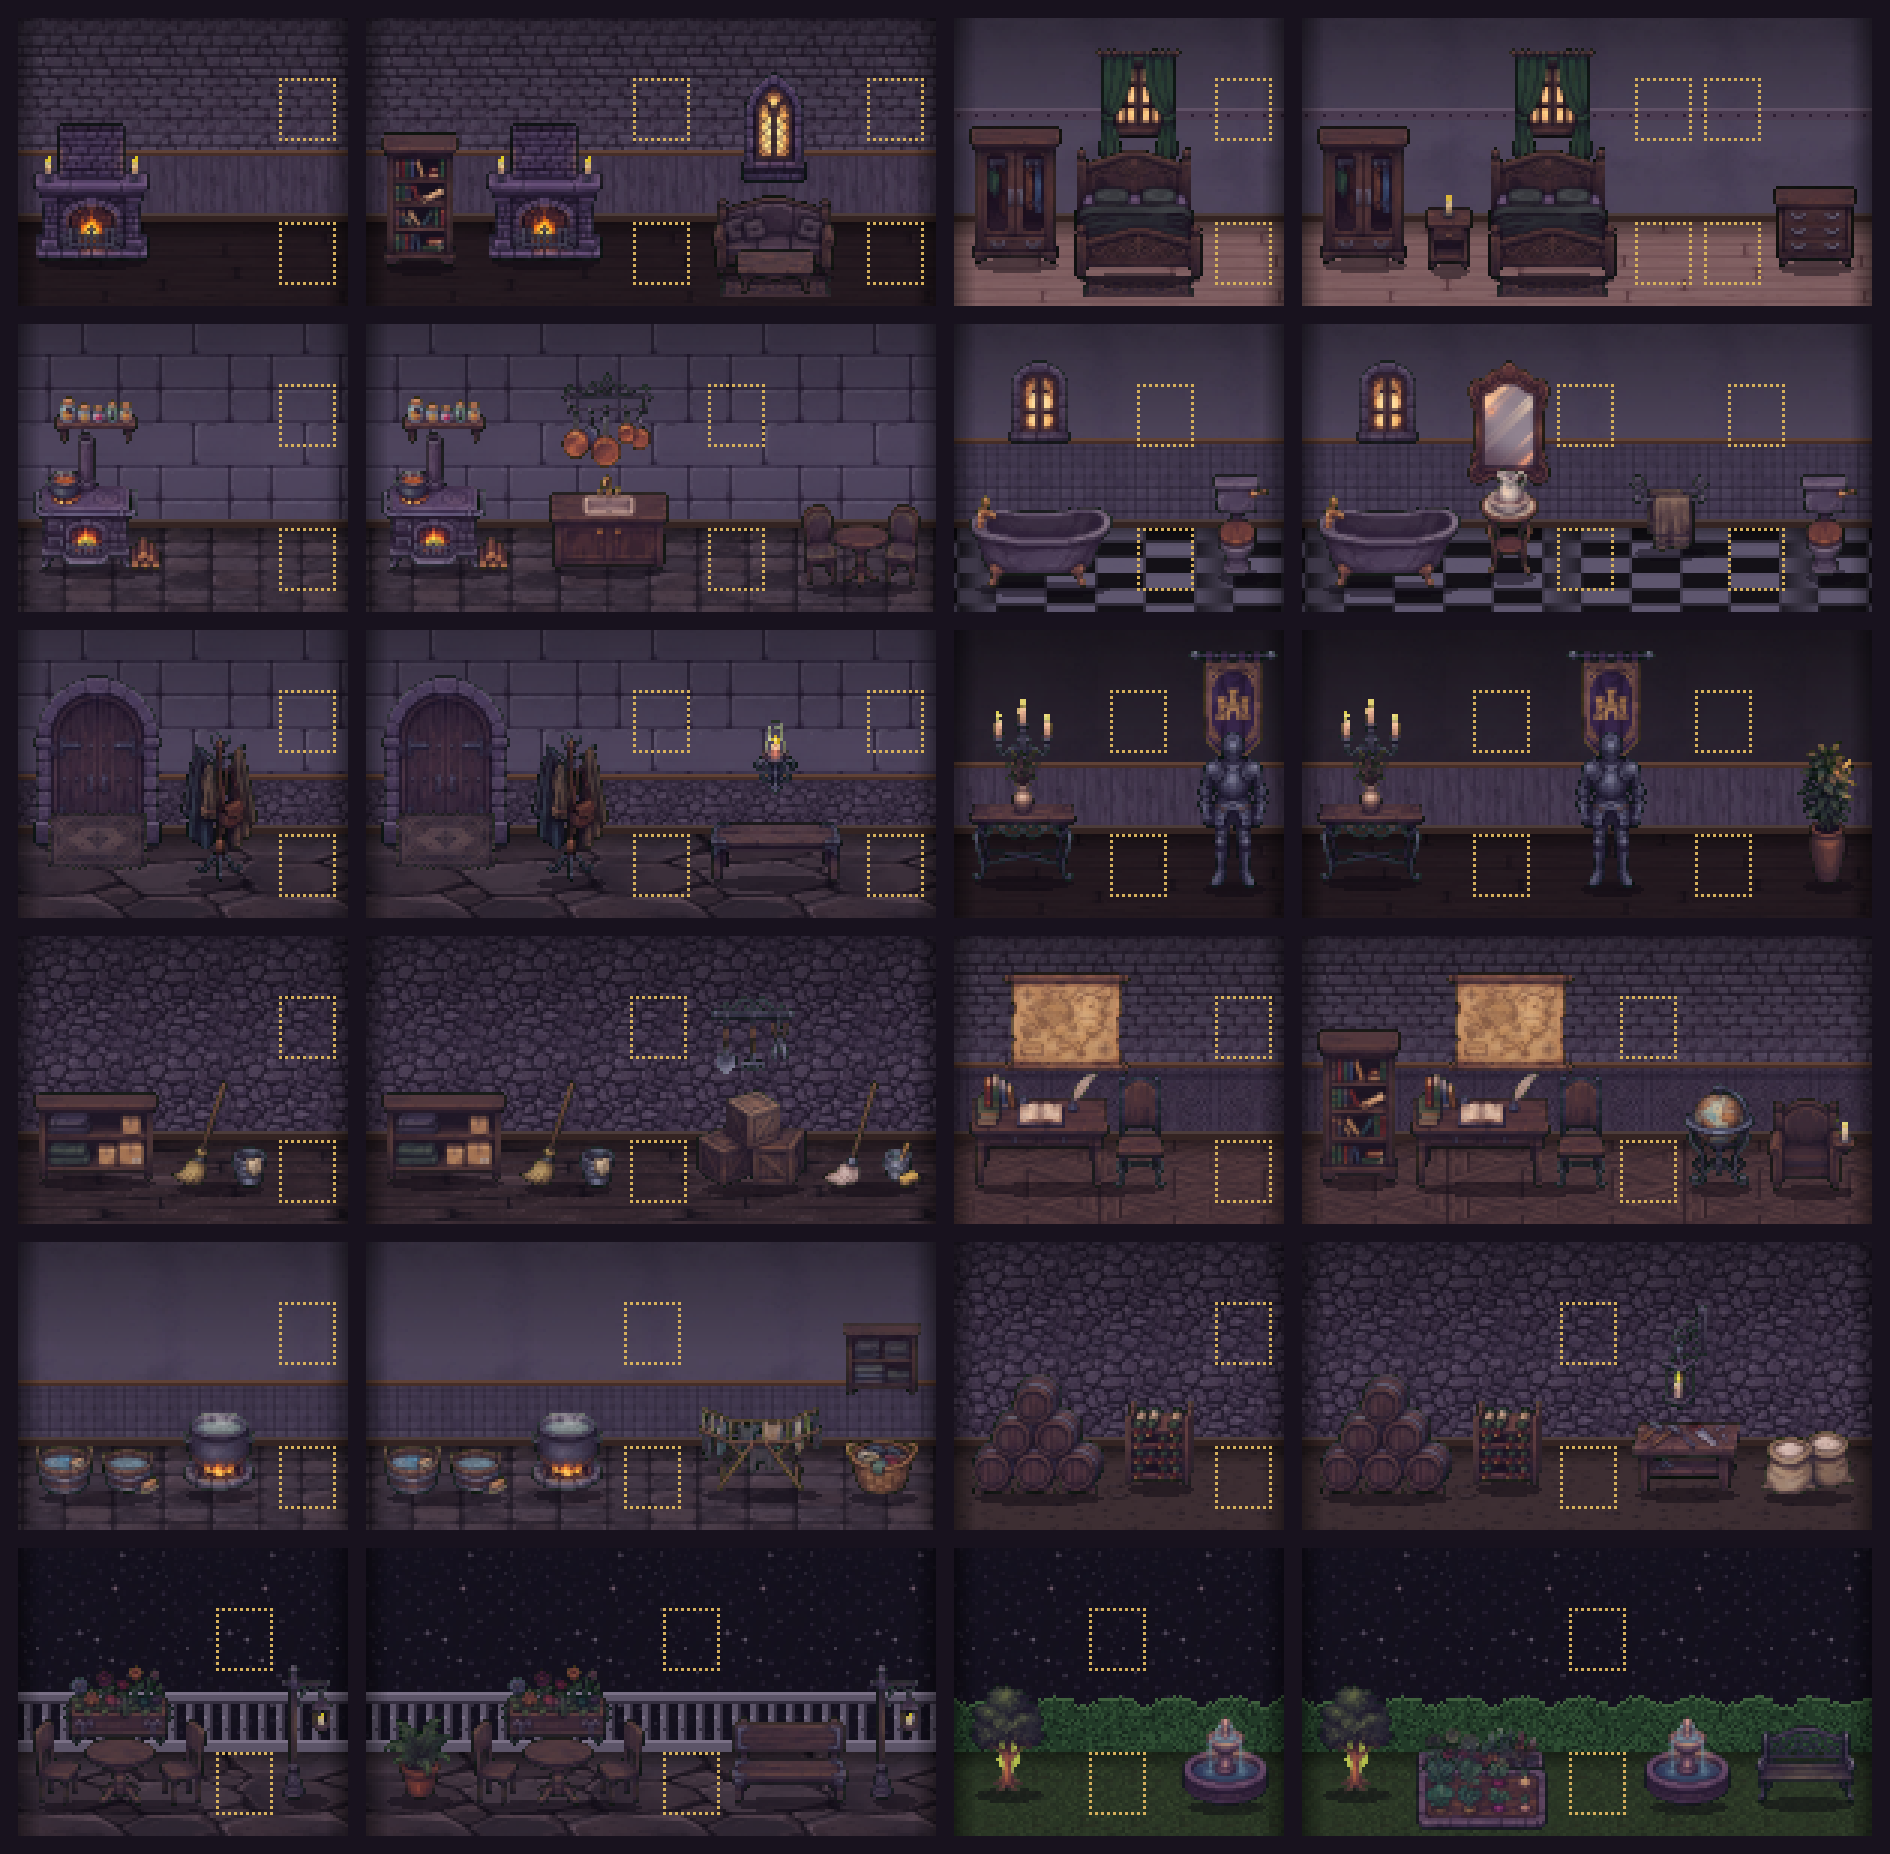
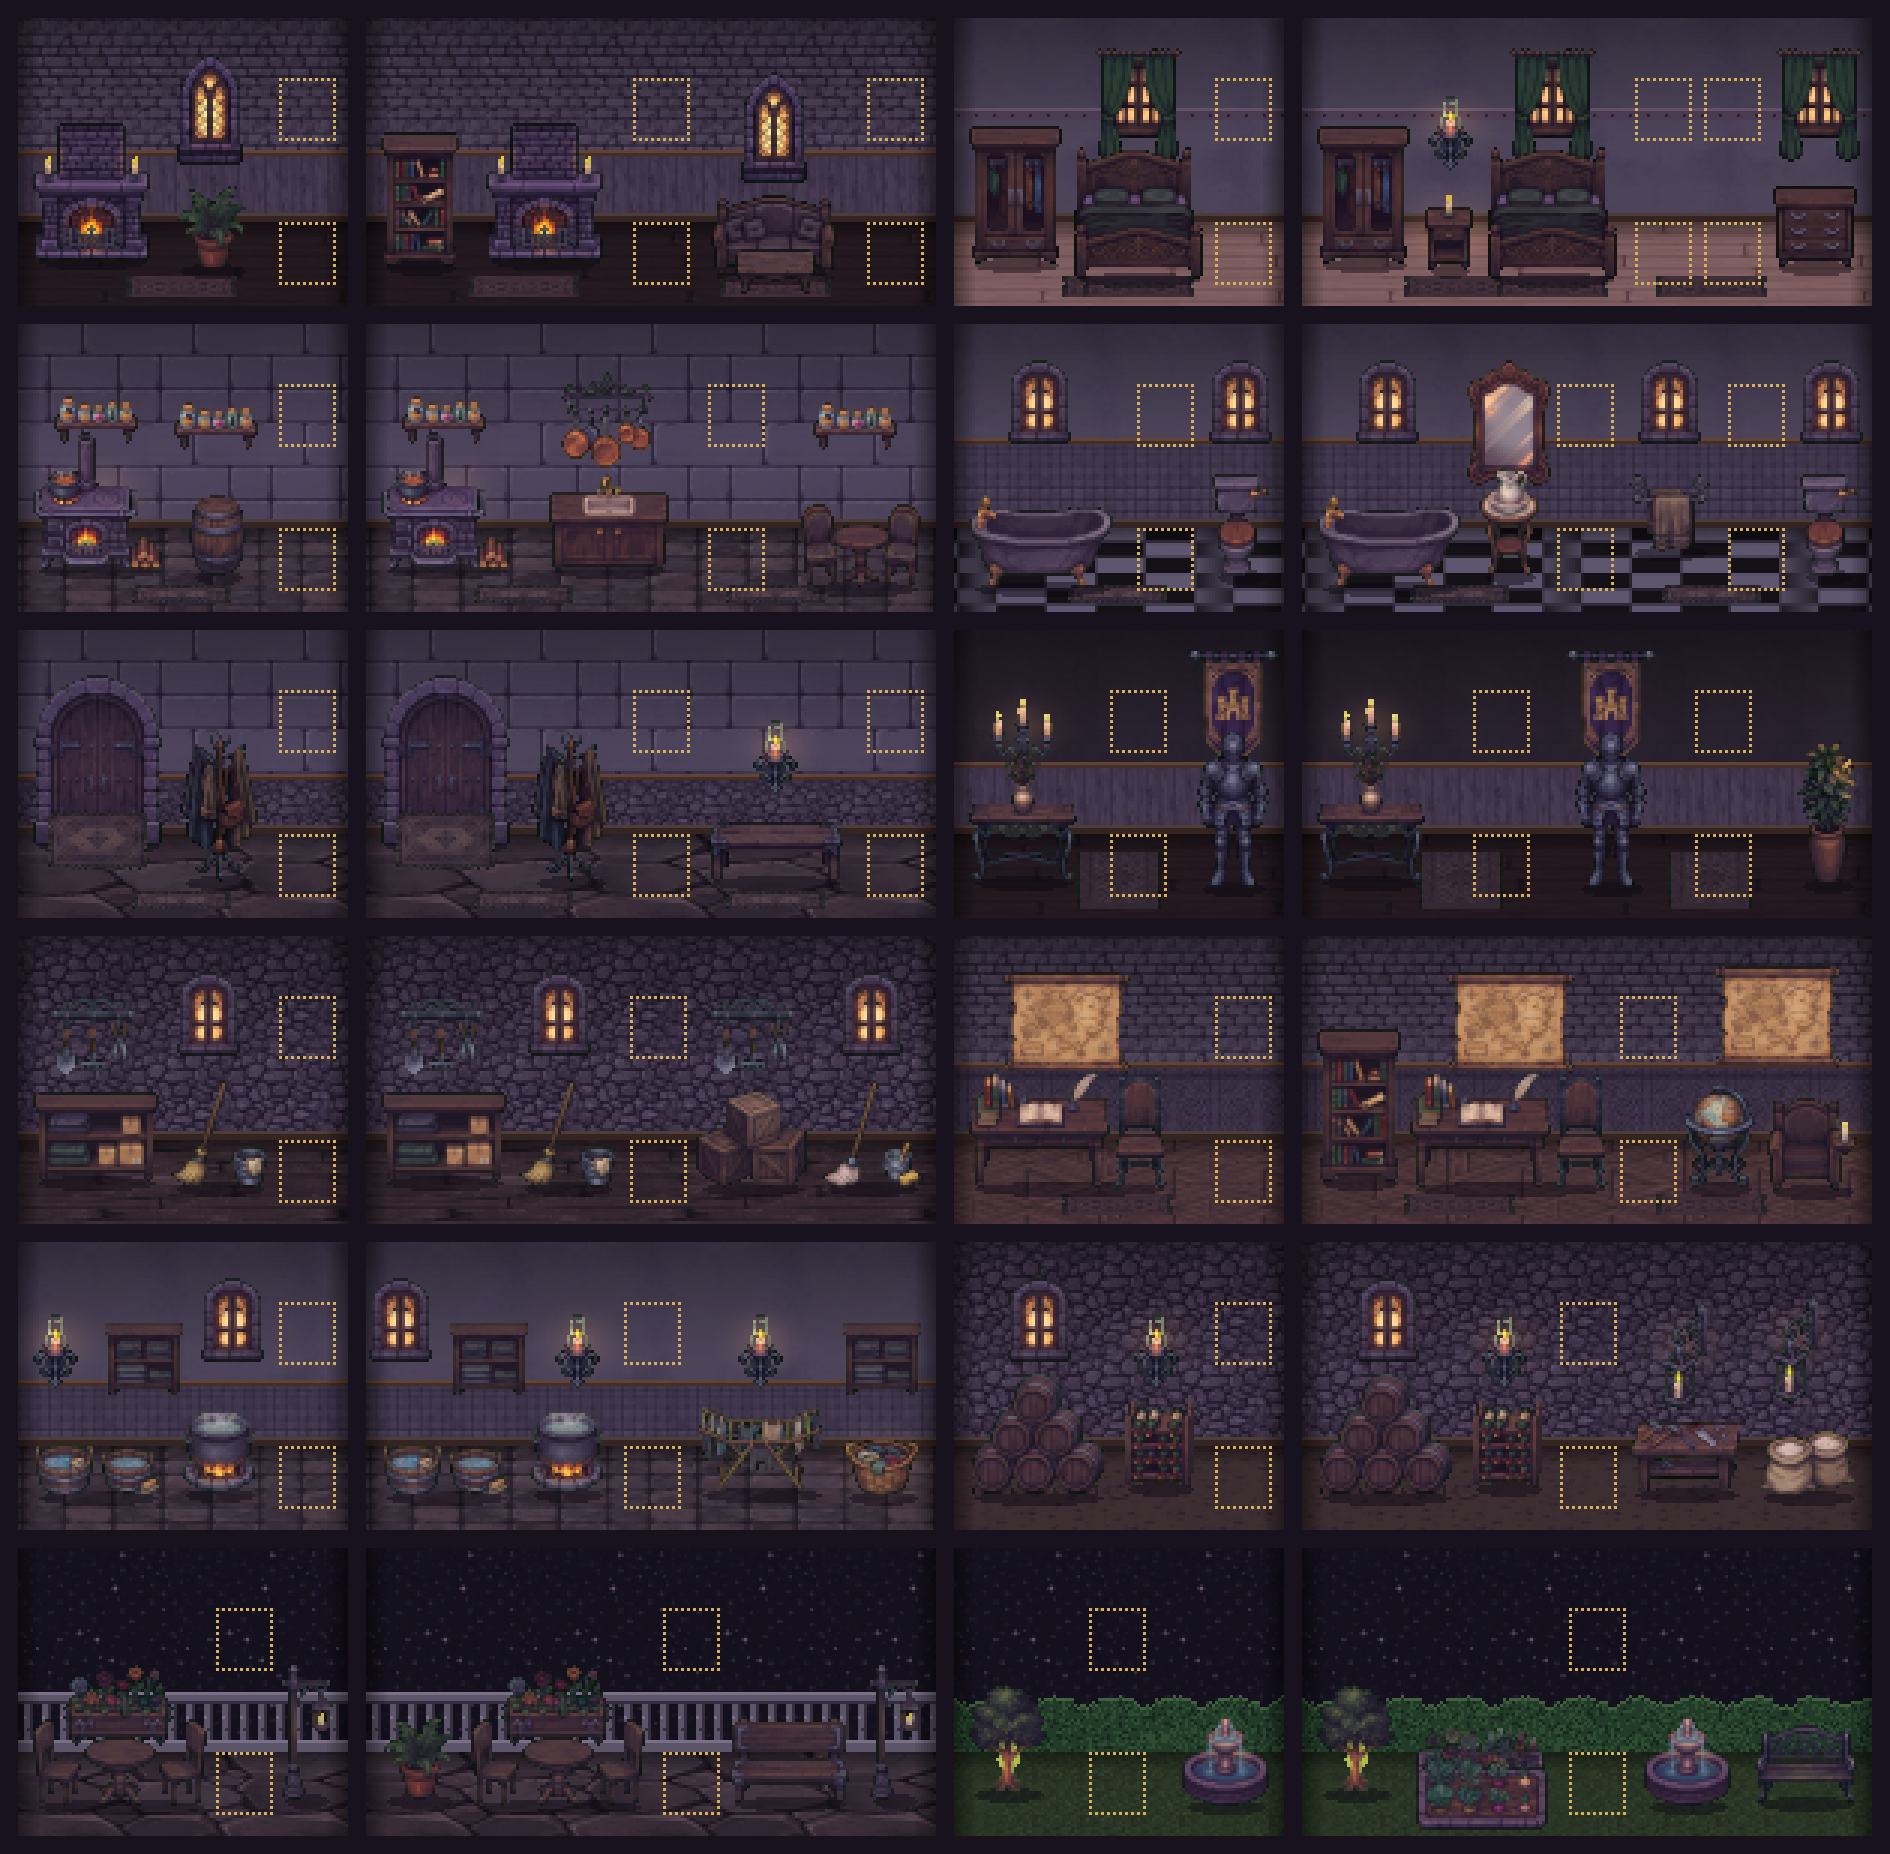
Stanze modulari: riempimento automatico di muro e pavimento (finestre, candele, arazzi, piante, tappeti, luce calda)
Claude-Session: https://claude.ai/code/session_0172XSwwqtzYGYUizC6FgUXo

diff --git a/tools/dimore/modulare/componi.py b/tools/dimore/modulare/componi.py
@@ -201,16 +201,124 @@ def disponi(W, voci, bordo=5, minimo=3):
     return out
 
 
+# Riempimenti: decorazioni che si aggiungono da sole negli spazi vuoti, per non lasciare le stanze spoglie.
+# pavimento: (pezzo, riga dei piedi) · tappeti stesi a terra · parete: (pezzo, riga della cima).
+RIEMPI_PAV = {
+ "soggiorno": ["balcone_1", "camera_3", "corridoio_3"], "camera": ["balcone_1", "corridoio_3", "soggiorno_5"],
+ "cucina": ["ripostiglio_5", "ripostiglio_4", "balcone_1"], "bagno": ["balcone_1", "ripostiglio_5"],
+ "ingresso": ["corridoio_3", "ripostiglio_5", "balcone_1"], "corridoio": ["balcone_1", "ripostiglio_5", "corridoio_3"],
+ "ripostiglio": ["cantina_2", "ripostiglio_5", "ripostiglio_4"], "studio": ["corridoio_3", "soggiorno_5", "balcone_1"],
+ "lavanderia": ["ripostiglio_5", "balcone_1", "ripostiglio_4"], "cantina": ["ripostiglio_4", "ripostiglio_5", "cantina_2"],
+ "balcone": ["balcone_1", "giardino_6"], "giardino": ["giardino_6", "balcone_1", "giardino_1"],
+}
+RIEMPI_TAPPETI = {"soggiorno": "camera_5", "camera": "camera_5", "ingresso": "ingresso_5", "corridoio": "corridoio_4", "studio": "camera_5", "bagno": "ingresso_5", "cucina": "ingresso_5"}
+RIEMPI_PARETE = {  # solo le stanze al coperto; all'aperto c'è il cielo. (pezzo, riga della cima)
+ "soggiorno": [("soggiorno_6", 12), ("ingresso_6", 26), ("corridoio_6", 6), ("studio_6", 10), ("corridoio_5", 28), ("bagno_5", 10)],
+ "camera": [("camera_6", 10), ("ingresso_6", 26), ("studio_6", 10), ("bagno_5", 10), ("corridoio_5", 28), ("corridoio_6", 6)],
+ "cucina": [("cucina_6", 26), ("ingresso_6", 24), ("bagno_6", 14), ("bagno_6", 12), ("ripostiglio_8", 20), ("corridoio_5", 28)],
+ "bagno": [("bagno_6", 12), ("bagno_5", 10), ("ingresso_6", 24), ("corridoio_5", 28), ("soggiorno_6", 12)],
+ "ingresso": [("corridoio_6", 6), ("ingresso_6", 26), ("studio_6", 10), ("corridoio_5", 28), ("soggiorno_6", 12)],
+ "corridoio": [("ingresso_6", 24), ("corridoio_6", 6), ("corridoio_5", 26), ("studio_6", 10), ("bagno_5", 10)],
+ "ripostiglio": [("ripostiglio_8", 20), ("ingresso_6", 24), ("lavanderia_7", 26), ("cantina_6", 18), ("bagno_6", 12)],
+ "studio": [("studio_6", 10), ("soggiorno_6", 12), ("corridoio_5", 28), ("ingresso_6", 26), ("corridoio_6", 6)],
+ "lavanderia": [("lavanderia_7", 26), ("ingresso_6", 24), ("bagno_6", 12), ("ripostiglio_8", 20), ("corridoio_5", 28)],
+ "cantina": [("cantina_6", 18), ("ingresso_6", 24), ("ripostiglio_8", 20), ("bagno_6", 12), ("corridoio_6", 6)],
+}
+LUCI = {"soggiorno_3", "cucina_1", "lavanderia_4", "ingresso_6", "corridoio_5", "camera_3", "soggiorno_5", "cantina_6", "studio_5"}
+
+
+def luce(img, cx, cy, r=26, a=46, col=(255, 168, 70)):
+    """Alone caldo (si somma) attorno a fuochi e candele."""
+    y, x = np.mgrid[0:img.height, 0:img.width]
+    k = np.clip(1 - np.hypot(x - cx, (y - cy) * 1.25) / r, 0, 1) ** 2 * a
+    arr = np.array(img).astype(float)
+    for c in range(3): arr[..., c] += k * col[c] / 255
+    img.paste(Image.fromarray(arr.clip(0, 255).astype(np.uint8), "RGBA"))
+
+
+def buchi(occupati, W, bordo=4, pad=2):
+    """Intervalli liberi tra gli ingombri [(x0, x1)]."""
+    occ = sorted((max(bordo, a - pad), min(W - bordo, b + pad)) for a, b in occupati); out, x = [], bordo
+    for a, b in occ:
+        if a > x: out.append((x, a))
+        x = max(x, b)
+    if W - bordo > x: out.append((x, W - bordo))
+    return out
+
+
 def stanza(nome, W):
     """(immagine, posti). posti = {"t": [(cx, base)], "p": [(cx, cima)]} in pixel del disegno."""
     r = STANZE[nome]
     img = sfondo(W, r["m_alto"], r.get("m_basso"), r.get("fascia"), r["pav"], r.get("pav_g"), bordo=r.get("bordo"))
     lay = disponi(W, r["pav_mobili"]); pos = {k: (cx, b) for k, cx, b, _ in lay if k != "R"}
     posti = {"t": [(round(cx), b) for k, cx, b, _ in lay if k == "R"], "p": [(round(cx), CIMA_DIPINTO) for k, cx, b, _ in lay if k == "R"]}
+    piani, parete, ombre = [], [], []          # ingombri a terra, sul muro
+    for k, cx, b, w in lay:
+        piani.append((cx - w / 2, cx + w / 2))
+        if k == "R": parete.append((cx - DIPINTO[0] / 2, cx + DIPINTO[0] / 2)); continue
+        p = pezzo(k)
+        if b - p.height < 56: parete.append((cx - p.width / 2, cx + p.width / 2))
+    appesi = []
+    for p, sopra, cima in r.get("appesi", []):
+        if sopra in pos: appesi.append((p, pos[sopra][0], cima))
+    # profilo dei mobili: altezza della cima di ciò che sta a terra, colonna per colonna (il muro libero sta sopra)
+    cima_mobili = np.full(W, MURO - BATT - 1.0)
+    for k, cx, b, w in lay:
+        if k == "R": continue
+        top = b - pezzo(k).height
+        cima_mobili[max(0, int(cx - w / 2)):min(W, int(cx + w / 2) + 1)] = np.minimum(cima_mobili[max(0, int(cx - w / 2)):min(W, int(cx + w / 2) + 1)], top)
+    blocca = np.zeros(W, bool)                  # colonne con un pezzo appeso o un posto dipinto
+    def segna(cx, w, pad=2): blocca[max(0, int(cx - w / 2 - pad)):min(W, int(cx + w / 2 + pad) + 1)] = True
+    for k, cx, b, w in lay:
+        if k == "R": segna(cx, DIPINTO[0], 3)
+    for p, cx, cima in appesi: segna(cx, pezzo(p).width, 3)
+    # 1. tappeti stesi a terra: sotto al centro (e a un quarto se la stanza è larga)
+    tap = RIEMPI_TAPPETI.get(nome)
+    if tap and not r.get("bordo"):
+        for fx in ((.5,) if W < 150 else (.28, .72)): tappeto(img, pezzo(tap), fx * W, 93)
+    # 2. mobiletti, piante, botti nei buchi del pavimento
+    def riempi_pav(pool):
+        out, i = [], 0
+        for a_, b_ in buchi(piani, W):
+            scelti, usato = [], 0
+            for _ in range(len(pool) * 3):
+                n_, bs = pool[i % len(pool)]; i += 1; w_ = pezzo(n_).width
+                if usato + w_ + 6 <= b_ - a_ and (not scelti or scelti[-1][0] != n_): scelti.append((n_, bs, w_)); usato += w_ + 2
+            if not scelti: continue
+            avanzo = (b_ - a_ - usato) / (len(scelti) + 1); x = a_ + avanzo
+            for n_, bs, w_ in scelti: out.append((n_, x + w_ / 2, bs)); x += w_ + 2 + avanzo
+        return out
+    extra = riempi_pav([(p, 84 + k % 3 * 2) for k, p in enumerate(RIEMPI_PAV[nome] * 2)])
+    for p, cx, b in extra: piani.append((cx - pezzo(p).width / 2, cx + pezzo(p).width / 2))
+    # 3. candele, finestre, arazzi sul muro libero: ognuno va nel punto più largo dove ci sta in altezza
+    deco = []
+    if nome in RIEMPI_PARETE:
+        pool = RIEMPI_PARETE[nome]
+        usati = {}
+        for n in range(14):
+            n_, cima = pool[n % len(pool)]; q = pezzo(n_); best = None
+            if usati.get(n_, 0) >= 1 + (W >= 150): continue          # al massimo uno (due nelle stanze larghe) per tipo
+            libero = (~blocca) & (cima_mobili >= cima + q.height + 3)
+            x = 0
+            while x < W:
+                if not libero[x]: x += 1; continue
+                y = x
+                while y < W and libero[y]: y += 1
+                if y - x >= q.width + 2 and (best is None or y - x > best[1] - best[0]): best = (x, y)
+                x = y
+            if not best: continue
+            cx = (best[0] + best[1]) / 2; deco.append((n_, cx, cima)); usati[n_] = usati.get(n_, 0) + 1; segna(cx, q.width, 3)
+    # luci prima dei mobili, così l'alone sta dietro
+    for k, cx, b, _ in lay:
+        if k in LUCI: luce(img, cx, b - pezzo(k).height * 0.55)
+    for k, cx, cima in [(p, cx, cm) for p, cx, cm in appesi] + deco:
+        if k in LUCI: luce(img, cx, cima + pezzo(k).height * 0.35, r=20, a=40)
+    for k, cx, b in extra:
+        if k in LUCI: luce(img, cx, b - pezzo(k).height * 0.7, r=18, a=36)
     for p, sotto, base in r.get("tappeti", []):
         if sotto in pos: tappeto(img, pezzo(p), pos[sotto][0], base)
-    for p, sopra, cima in r.get("appesi", []):
-        if sopra in pos: appendi(img, pezzo(p), pos[sopra][0], cima)
+    for p, cx, cima in appesi + deco: appendi(img, pezzo(p), cx, cima)
+    for p, cx, b in sorted(extra, key=lambda e: e[2]): appoggia(img, pezzo(p), cx, b)
     for k, cx, b, _ in lay:
         if k != "R": appoggia(img, pezzo(k), cx, b)
     for p, sopra, base in r.get("davanti", []):
